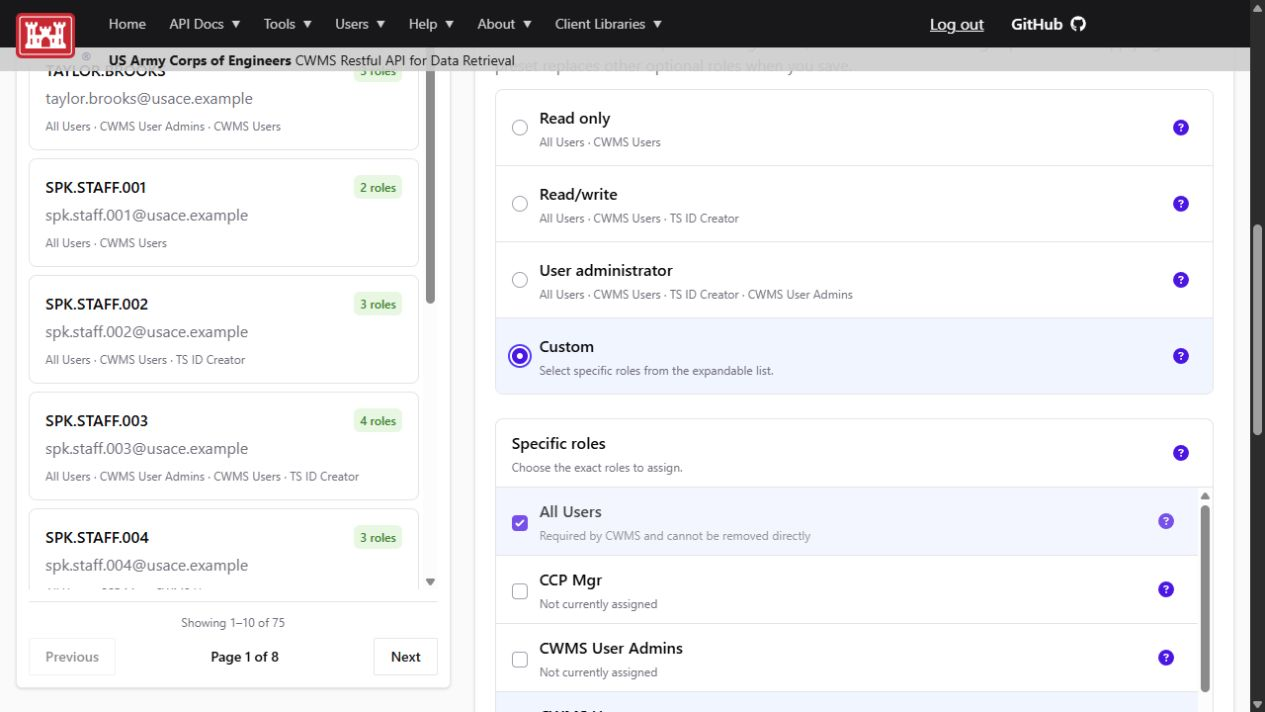
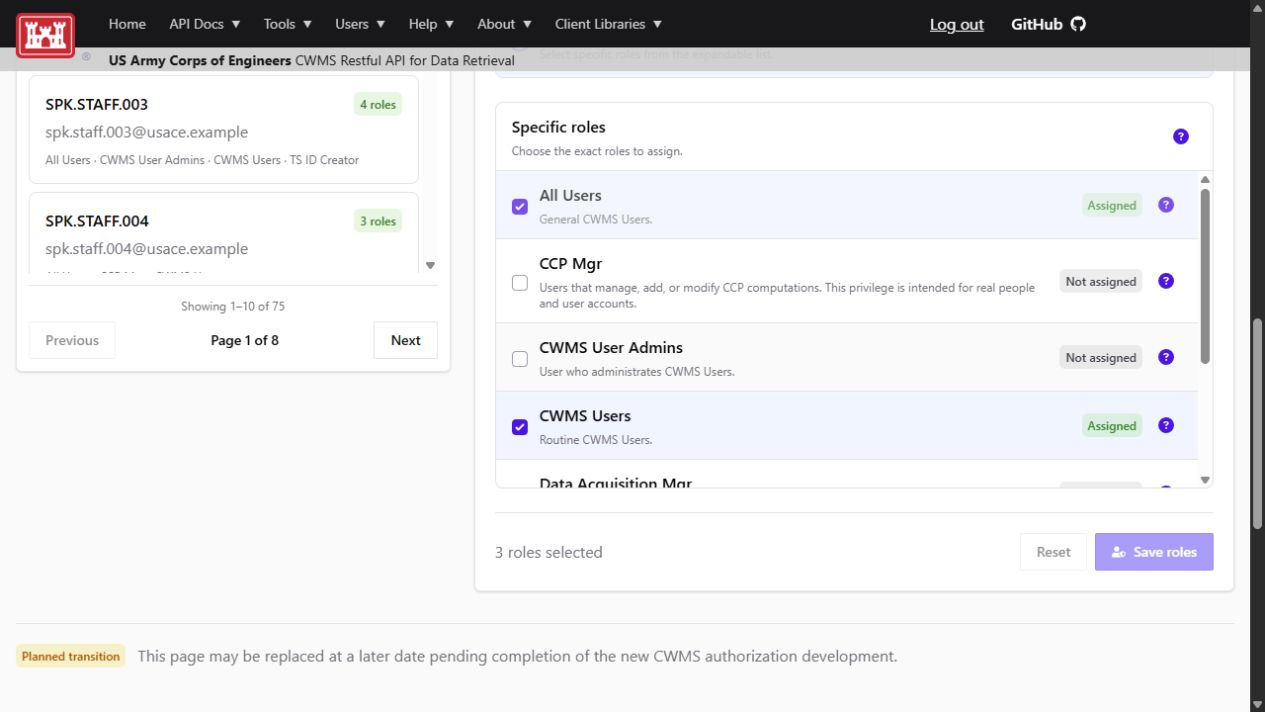
feat: show CWMS database role descriptions

diff --git a/cda-gui/src/pages/user-roles/index.jsx b/cda-gui/src/pages/user-roles/index.jsx
@@ -1,5 +1,6 @@
 import { useEffect, useMemo, useState } from "react";
 import {
+  CWMS_USER_ROLE_DESCRIPTIONS,
   CWMS_USER_ROLE_PRESETS,
   OfficeDropdown,
   matchCwmsUserRolePreset,
@@ -36,15 +37,8 @@ const cdaUrl = import.meta.env.VITE_CDA_API_ROOT;
 const cliRoleDocsUrl =
   "https://cwms-cli.readthedocs.io/en/latest/cli/users.html#add-a-role-to-a-user";
 const usersPerPage = 10;
-const roleDescriptions = {
-  "All Users": "Baseline membership required for every CWMS user.",
-  "CCP Mgr": "Allows management of CWMS Control Point configuration.",
-  "CWMS User Admins": "Allows management of users and office-scoped role assignments.",
-  "CWMS Users": "Provides standard authenticated CWMS access.",
-  "Data Acquisition Mgr": "Allows management of data-acquisition configuration.",
-  "TS ID Creator": "Allows creation of time-series identifiers.",
-  "VT Mgr": "Allows management of validation and transformation configuration.",
-};
+const fallbackRoleDescription =
+  "An office-scoped CWMS role returned by the CDA role catalog.";
 
 function updateSummary(userName, additions, removals) {
   const changes = [];
@@ -577,17 +571,23 @@ export default function UserRoles() {
                               >
                                 <Strong>{role}</Strong>
                                 <Text className="mt-1 text-xs">
-                                  {protectedRole
-                                    ? "Required by CWMS and cannot be removed directly"
-                                    : currentRoles.includes(role)
-                                      ? "Currently assigned"
-                                      : "Not currently assigned"}
+                                  {CWMS_USER_ROLE_DESCRIPTIONS[role] ??
+                                    fallbackRoleDescription}
                                 </Text>
                               </label>
-                              <HelpTip title={role}>
-                                {roleDescriptions[role] ??
-                                  "An office-scoped CWMS role returned by the CDA role catalog."}
-                              </HelpTip>
+                              <div className="flex shrink-0 items-center gap-2">
+                                <Badge
+                                  color={currentRoles.includes(role) ? "green" : "zinc"}
+                                >
+                                  {currentRoles.includes(role)
+                                    ? "Assigned"
+                                    : "Not assigned"}
+                                </Badge>
+                                <HelpTip title={role}>
+                                  {CWMS_USER_ROLE_DESCRIPTIONS[role] ??
+                                    fallbackRoleDescription}
+                                </HelpTip>
+                              </div>
                             </div>
                           );
                         })}
